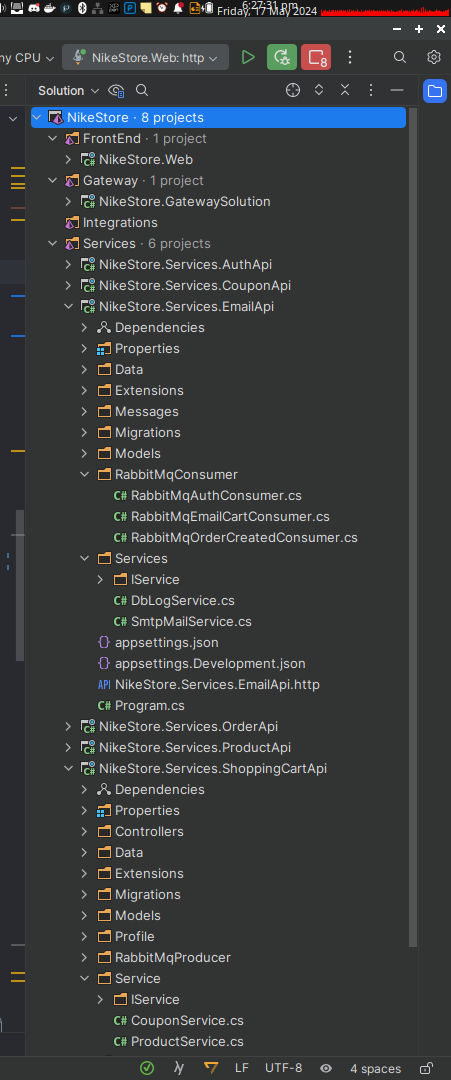
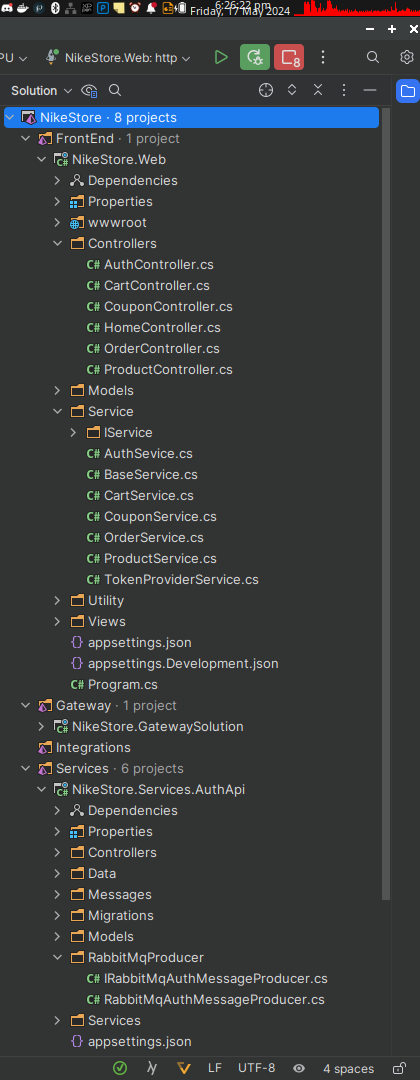
added ss + fixed readme

diff --git a/README.md b/README.md
@@ -16,9 +16,33 @@
 
 ![nike-store microservice app flow](https://github.com/devxbasit/NikeStore/blob/master/ss/stripe.png)
 
-# Footer
+# Hangfire Dashboard
 
-![nike-store microservice app flow](https://github.com/devxbasit/NikeStore/blob/master/ss/footer.png)
+![nike-store microservice app flow](https://github.com/devxbasit/NikeStore/blob/master/ss/hangfire-dashboard.png)
+
+# Hangfire Succeeded Jobs
+
+![nike-store microservice app flow](https://github.com/devxbasit/NikeStore/blob/master/ss/hangfire-succeeded-jobs.png)
+
+# Hangfire Servers
+
+![nike-store microservice app flow](https://github.com/devxbasit/NikeStore/blob/master/ss/hangfire-servers.png)
+
+# RabbitMQ Queues
+
+![nike-store microservice app flow](https://github.com/devxbasit/NikeStore/blob/master/ss/rabbit-mq-queues.png)
+
+# Customer Registration Mail
+
+![nike-store microservice app flow](https://github.com/devxbasit/NikeStore/blob/master/ss/registration-mail.png)
+
+# Order Confirmation Mail
+
+![nike-store microservice app flow](https://github.com/devxbasit/NikeStore/blob/master/ss/order-confirmation-mail.png)
+
+# Email Cart Mail
+
+![nike-store microservice app flow](https://github.com/devxbasit/NikeStore/blob/master/ss/email-cart-mail.png)
 
 # Microservices Architecture Screenshot - 1
 
@@ -27,6 +51,14 @@
 # Microservices Architecture Screenshot - 2
 
 ![nike-store microservice app flow](https://github.com/devxbasit/NikeStore/blob/master/ss/rider-ss-2.png)
+
+# Microservices Architecture Screenshot - 3
+
+![nike-store microservice app flow](https://github.com/devxbasit/NikeStore/blob/master/ss/rider-ss-3.png)
+
+# Footer
+
+![nike-store microservice app flow](https://github.com/devxbasit/NikeStore/blob/master/ss/footer.png)
 
 # command
 
